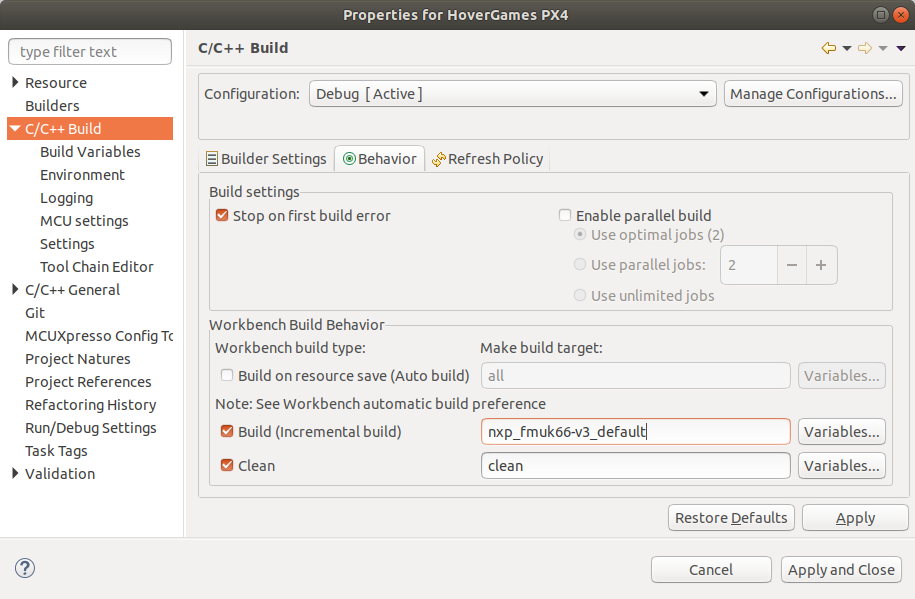
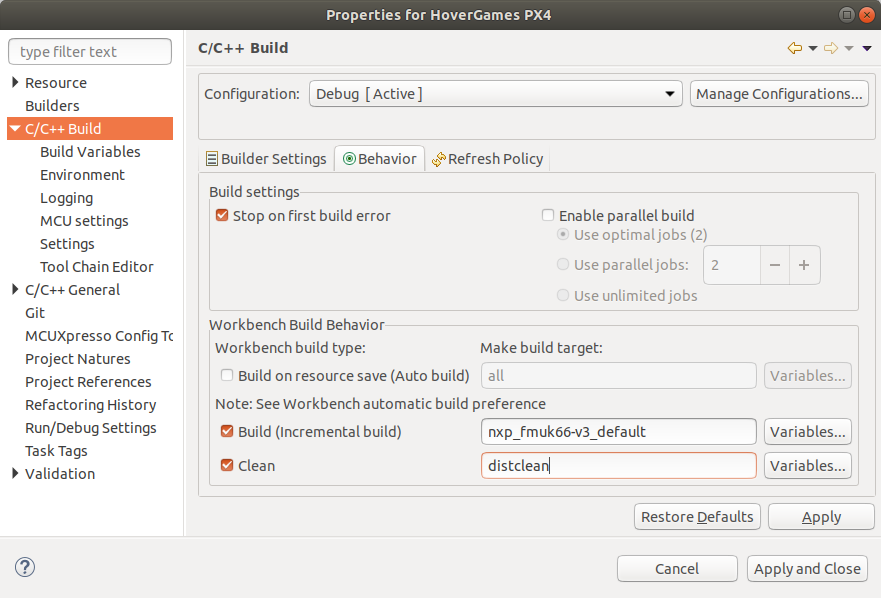
GitBook: [master] 97 pages and 4 assets modified

diff --git a/devguide/tools/mcuxpresso.md b/devguide/tools/mcuxpresso.md
@@ -41,23 +41,23 @@ You might get asked to accept an agreement \(use the arrow keys to select "Yes" 
 
 The MCUXpresso IDE by default only contains SDK support for a few microcontrollers. You must install additional SDK packages for most micocontrollers. The Kinetis K66 that is found on the FMUK66 board is not available by default, so we will have to install its SDK package.
 
-Go to the MCUXpresso SDK Builder linked below. If you click on "Select Development Board" you will be taken to a page where you can select the Kinetis K66 microcontroller and put together an SDK package. You might need to login again to your NXP account.
+Go to the MCUXpresso SDK Builder linked below. If you **click on "Select Development Board"** you will be taken to a page where you can select the Kinetis K66 microcontroller and put together an SDK package. You might need to **login** again to your NXP account.
 
 {% embed url="https://mcuxpresso.nxp.com/en/welcome" %}
 
-You have to select the processor for which you want to build the SDK. The easiest is to use the search field. Just start typing "MK66FN" and select "MK66FN2M0xxx18" under processors. Then, press the green "Build MCUXpresso SDK" button on the right.
+You have to select the processor for which you want to build the SDK. The easiest is to use the search field. Just start typing **"MK66FN"** and select **"MK66FN2M0xxx18"** under processors. Then, **press the green "Build MCUXpresso SDK" button on the right**.
 
 ![](../../.gitbook/assets/hg_mcuxpresso3.png)
 
-On the next page, select Linux as the host operating system, and make sure the toolchain / IDE selection is set to "MCUXpresso" \(or "All toolchains" if you want to use the SDK also with other tools\). You can leave the other settings at their default values, but feel free to include additional features if you want to. 
+On the next page, select **Linux as the host operating system**, and make sure the toolchain / IDE selection is set to **"MCUXpresso"** \(or "All toolchains" if you want to use the SDK also with other tools\). You can leave the other settings at their default values, but feel free to include additional features if you want to. 
 
-Press the "Download SDK" button when you are done. You might have to accept another agreement. The download should start immediately after that, but in some cases you might need to click on "Download SDK Archive". Download the SDK directly from your VM, or use the shared folder feature.
+**Press the "Download SDK" button** when you are done. You might have to accept another agreement. The download should start immediately after that, but in some cases you might need to click on "Download SDK Archive". Download the SDK directly from your VM, or use the shared folder feature.
 
 ![](../../.gitbook/assets/hg_mcuxpresso4.png)
 
-Now, start MCUXpresso within your VM. You can find it in Ubuntu's launcher menu. MCUXpresso will immediately ask at what location the workspace should be saved. You can chose your own directory, or leave the default as is. You can also create additional workspaces if you want.
+Now, start MCUXpresso within your VM. You can find it in Ubuntu's **launcher menu**. MCUXpresso will immediately ask at what location the **workspace** should be saved. You can chose your own directory, or leave the default as is. You can also create additional workspaces if you want.
 
-You will be greeted by a welcome screen. You can close the tab or press the large "IDE" button on the top right to continue. Once you are in the main view of the IDE, find the location were you stored the Kinetis K66 SDK .zip file, and drag the archive into the area of the IDE window that says "Installed SDKs". It's usually located at the bottom. It will ask you to confirm that you want to import the SDK. Just press "OK". It might take a few seconds to install.
+You will be greeted by a welcome screen. You can **close the "Welcome" tab** or **press the "IDE" button on the top right** to continue. Once you are in the main view of the IDE, find the location were you stored the Kinetis K66 SDK .zip file, and **drag the archive** into the area of the IDE window that says "Installed SDKs". It's usually located at the bottom. It will ask you to confirm that you want to import the SDK. Just press "OK". It might take a few seconds to install.
 
 ![](../../.gitbook/assets/hg_mcuxpresso5.png)
 
@@ -65,51 +65,39 @@ You will be greeted by a welcome screen. You can close the tab or press the larg
 
 ## Create a new project for PX4
 
-Now that MCUXpresso and the Kinetis K66 SDK are installed, we can continue and create a PX4 project. You can create a new project in MCUXpresso by going to "File", "New", and then "Project". A list with different project types will appear, from which you should select "Makefile Project with Existing Code" under "C/C++".
+Now that MCUXpresso and the Kinetis K66 SDK are installed, we can continue and create a PX4 project. You can create a new project in MCUXpresso by going to **"File", "New", and then "Project"**. A list with different project types will appear, from which you should select **"Makefile Project with Existing Code"** under "C/C++".
 
 ![](../../.gitbook/assets/hg_mcuxpresso7.png)
 
-You can use any project name, but for clarity we will call it "HoverGames PX4". You should select `/home/hovergames/src/px4-firmware` as the existing code location. This is the folder where we cloned the PX4 firmware code. Make sure that both the C and C++ languages are selected. For "Toolchain for Indexer Settings", select "NXP MCU Tools". Click "Finish" to create the project.
+You can use any project name, but for clarity we will call it "HoverGames PX4". You should select `/home/hovergames/src/px4-firmware` as the **existing code location**. This is the folder where we cloned the PX4 firmware code. Make sure that both the C and C++ languages are selected. For "Toolchain for Indexer Settings", select **"NXP MCU Tools"**. Click "Finish" to create the project.
 
 ![](../../.gitbook/assets/hg_mcuxpresso8.png)
 
 ## Project properties
 
-{% hint style="danger" %}
-The remainder of this page is currently being updated. There were some mistakes and not all steps are relevant anymore for the newest version of MCUXpresso. Continue at your own risk. There may still be mistakes or missing steps.
-{% endhint %}
+Before we continue we should change some project properties. **Select the project** we just created on the left side of the screen, go to **"Project"** in the menu at the top and then select **"Properties"**. 
 
-Before we continue we should change some project properties. Select the project we just created on the left side of the screen, go to "Project" in the menu at the top and then select "Properties". 
-
-Go to "MCU Settings" under "C/C++ Build". An error might pop up, complaining about invalid values. If this happens, switch to another tab and switch back again. You should now see the same screen as shown in the image below. On this "MCU Settings" screen, select the MK66FN2M0xxx18 under the K6x family of MCUs.
+Go to **"MCU Settings"** under "C/C++ Build". An error _might_ pop up, complaining about invalid values. If this happens you can close the error, switch to another tab and switch back again. You should now see the same screen as shown in the image below. On this "MCU Settings" screen, select the **MK66FN2M0xxx18** under the K6x family of MCUs.
 
 ![](../../.gitbook/assets/hg_mcuxpresso9.png)
 
-Now go to the main "C/C++ Build" tab. The current configuration will be "Debug". Uncheck "Use default build command" and change the build command to just `make`. The PX4 build scripts will then take care of the specifics.
+Now go to the main "C/C++ Build" tab. Uncheck "Use default build command" and change the build command to just `make`. The PX4 build scripts will take care of the specifics, we should not supply any additional arguments here.
 
 ![](../../.gitbook/assets/hg_mcuxpresso10.png)
 
-Then switch to the "Behavior" tab. Uncheck "Enable parallel build", because the PX4 build tools also already takes care of this. Set the "Build \(incremental build\)" target to `nxp_fmuk66-v3_default PX4_CMAKE_BUILD_TYPE=Debug`. Click "Apply" to apply all changed settings.
+Then switch to the "Behavior" tab. Uncheck "Enable parallel build", because the PX4 build tools also already takes care of this. Set the "Build \(incremental build\)" target to `nxp_fmuk66-v3_default` and change the "Clean" target to `distclean`. Click "Apply" to apply all changed settings.
 
 ![](../../.gitbook/assets/hg_mcuxpresso11.png)
 
-At the top of the window, you can press the button "Manage Configurations...". Create a new configuration named "Default", make it a copy of "Debug". Then select the newly created configuration, and make it the active configuration using the "Set Active" button. Then you can press "OK".
+You can click "Apply" to apply the changes, but don't close the window yet. The current configuration is named "Debug". Let's give that a more descriptive name. Click on the "Manage Configurations..." button and then choose "Rename..." to change the name. We will call it "PX4 FMUK66 Default". You can later add additional configurations if you want to play around with the build variables or if you want to build PX4 for another board, such as the [NXP UCANS32K146](https://nxp.gitbook.io/ucans32k146/).
 
 ![](../../.gitbook/assets/hg_mcuxpresso12.png)
 
-![](../../.gitbook/assets/hg_mcuxpresso13.png)
+You can press "Apply and Close" to apply the changes and close the window.
 
-In the properties window, make sure "Debug" is still selected. It will no longer have the tag "\[ Active \]" but it should still be the selected configuration. 
+We now have a _build_ configuration that allows us to create PX4 firmware builds for the FMUK66 board. You can use the hammer icon to start a build for the selected project. If you add multiple configurations you can switch between the different profiles with the small arrow next to the hammer icon. 
 
-In the main "C/C++ Build" tab we 
-
-. Add a variable named "CFLAGS" with value `O0` \(the capital letter 'o' and the number zero\). Make sure you DO NOT select the checkbox to add the variable to all configurations. This added flag disables compiler optimization specifically for the debug profile. After you have done this you can press "Apply and Close", we are finally done with the project properties.
-
-![](../../.gitbook/assets/hg_mcuxpresso14.png)
-
-We now have two _build_ configurations, the default one and a configuration for debugging. This allows us to create PX4 firmware builds for the FMUK66 board We can easily switch between a "standard" build and a debug build that has optimizations disabled so we get more predictable behavior when we step through the code.
-
-You can use the hammer icon to start a build for the selected project. You can switch between the two profiles with the small arrow next to the icon. Give it a try, the console at the bottom of the IDE window will show the progress of the build. Note that this might take a while if you are building PX4 for the first time.
+Give it a try, the console at the bottom of the IDE window will show the progress of the build. Note that this might take a while if you are building PX4 for the first time! When you make changes to the code after the first build it should only rebuild the changed files.
 
 ![](../../.gitbook/assets/hg_mcuxpresso15.png)
 

diff --git a/devguide/tools/README.md b/devguide/tools/README.md
@@ -16,9 +16,9 @@ If you choose to download the preconfigured VM, you do not have to follow the in
 Note that the default _hovergames_ useraccount also has _hovergames_  as its password!
 {% endhint %}
 
-We will start with [setting up the VirtualBox software](virtual-machine.md) for creating and running a virtual machine. We will also create the virtual machine, in which we will [install the Ubuntu Linux operating system](installing-ubuntu.md). Inside this virtual machine, the basic [PX4 toolchain will be installed](toolchain-installation.md), which should provide all the tools already to build your own firmware binaries from source.
+We will start with [setting up the VirtualBox software](virtual-machine.md) for creating and running a virtual machine. We will also create the virtual machine, in which we will [install the Ubuntu Linux operating system](installing-ubuntu.md). Inside this virtual machine, the basic [PX4 toolchain will be installed](toolchain-installation.md), which should provide all the tools already to build your own firmware binaries from source. Finally, we will [install the NXP MCUXpresso](mcuxpresso.md) integrated development environment \(IDE\), which allows you to edit, build and debug the PX4 firmware.
 
-Finally, you will have the choice to install and setup an integrated development environment \(IDE\), which allows you to edit, build and debug the PX4 firmware. The recommend IDE is [MCUXpresso](mcuxpresso.md), but we also provide instructions for setting up the popular [Visual Studio Code](../../archive/development-tools/visual-studio-code.md).
+It is very well possible to install all tools on your main operating system, whether you are using Linux, Windows or MacOS. Most of the used tools are cross platform, but it should be noted that the majority of developers use Linux or MacOS. 
 
-It is very well possible to install all tools on your main operating system, whether you are using Linux, Windows or MacOS. However, we only provide the instructions for setting up a virtual machine, because this should work well for most users and it is easier to support a single platform. You are free to install the tools onto your main operating system, but please be aware that you might need to figure some things out  using other resources. While these tools are cross platform, it should be noted that the majority of developers use Linux or MacOS. 
+We only provide the instructions for setting up a Linux virtual machine, because this should work well for most users and it is easier for us to support a single platform. You are free to install the tools on your main operating system, but please be aware that you might need to figure some things out using other resources.
 

diff --git a/devguide/tools/toolchain-installation.md b/devguide/tools/toolchain-installation.md
@@ -90,7 +90,7 @@ More information about using an AppImage is available in the QGroundControl User
 
 {% embed url="https://docs.qgroundcontrol.com/en/getting\_started/download\_and\_install.html\#ubuntu" %}
 
-You are now ready to continue to the next section\(s\), in which we will set up an integrated development environment \(IDE\) to edit, build and debug the PX4 firmware. You can choose to install either [MCUXpresso](mcuxpresso.md) \(recommended\) or [Visual Studio Code](mcuxpresso.md), but you can also install both to see which one you like best.
+You can now continue to the next page. We will [set up the NXP MCUXpresso](mcuxpresso.md) integrated development environment \(IDE\) to edit, build and debug the PX4 firmware.
 
 
 
